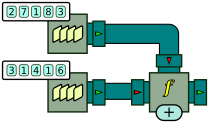
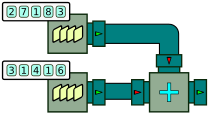
Chapter 2 finished

Changed region(s): [[0.7177, 0.6341, 0.89, 1.0]]

diff --git a/markdown/basic/README.md b/markdown/basic/README.md
@@ -143,7 +143,6 @@ System.out.println("The event is: " + p.pull());
 
 Notice how, after performing two pulls on `doubler`'s `Pullable`, we perform one call to `source`'s `Pullable`, and then resume pulling on `doubler`. The output of this program is this:
 
-
     The event is: 2
     The event is: 4
     The event is: 3
@@ -162,7 +161,7 @@ QueueSource source1 = new QueueSource();
 source1.setEvents(2, 7, 1, 8, 3);
 QueueSource source2 = new QueueSource();
 source2.setEvents(3, 1, 4, 1, 6);
-ApplyFunction add = new ApplyFunction(Numbers.addition);
+Adder add = new Adder();
 Connector.connect(source1, 0, add, 0);
 Connector.connect(source2, 0, add, 1);
 Pullable p = add.getPullableOutput();
@@ -172,14 +171,16 @@ for (int i = 0; i < 5; i++)
     System.out.println("The event is: " + x);
 }
 ```
-[⚓](https://github.com/liflab/beepbeep-3-examples/blob/master/Source/src/basic/PipingBinary.java#L41)
+[⚓](https://github.com/liflab/beepbeep-3-examples/blob/master/Source/src/basic/PipingBinary.java#L42)
 
 
 This time, we create *two* sources of numbers. We intend to connect these two sources of numbers to a processor called `add`, which, incidentally, has two input pipes. The interesting bit comes in the calls to [int, ca.uqac.lif.cep.Processor, int) connect()](http://liflab.github.io/beepbeep-3/javadoc/ca/uqac/lif/cep/Connector.html#connect(ca.uqac.lif.cep.Processor,), which now includes a few more arguments. The first call connects the output of `source1` to the *first* input of a processor called `add`. The second call connects the output of `source2` to the *second* input of `add`. Graphically, this is represented as follows:
 
 ![A processor with an input arity of two.](PipingBinary.png)
 
-The rest is done as usual: a `Pullable` is obtained from `add`, and its first few output events are printed:
+In a program, the two input pipes of `add` can be easily accessed through their number (0 or 1). However, in a drawing, it may be hard to decide which is which. In this book, we will follow the convention that the topmost input pipe is that with the lowest number. Hence, in the previous schema, input pipe 0 is the one connected to the queue 2-7-1-8-3. For some schemas, this may still not be clear enough; in such cases, we will explicitly write numbers next to the pipes to tell them apart.
+
+The rest of our program is done as usual: a `Pullable` is obtained from `add`, and its first few output events are printed:
 
 	The event is: 5.0
 	The event is: 8.0
@@ -196,7 +197,7 @@ SlowQueueSource source1 = new SlowQueueSource();
 source1.setEvents(2, 7, 1, 8, 3);
 QueueSource source2 = new QueueSource();
 source2.setEvents(3, 1, 4, 1, 6);
-ApplyFunction add = new ApplyFunction(Numbers.addition);
+Adder add = new Adder();
 Connector.connect(source1, 0, add, 0);
 Connector.connect(source2, 0, add, 1);
 Pullable p = add.getPullableOutput();
@@ -206,7 +207,7 @@ for (int i = 0; i < 5; i++)
     System.out.println("The event is: " + x);
 }
 ```
-[⚓](https://github.com/liflab/beepbeep-3-examples/blob/master/Source/src/basic/PipingBinaryWait.java#L47)
+[⚓](https://github.com/liflab/beepbeep-3-examples/blob/master/Source/src/basic/PipingBinaryWait.java#L46)
 
 
 The chain of processors in this example is almost identical to the previous example, and can be represented graphically as:
@@ -318,9 +319,86 @@ The `for` loop pushes the integers 0 to 7 into the input pipe of `doubler`; the 
 
 Notice the one-second interval between each number. This shows that, in pull mode, nothing happens until an upstream call to `push` triggers the chain of computation.
 
-## Pulling without source, pushing without sink {#without}
+## Pushing on binary processors {#pushbinary}
+
+Push mode exhibits a special behaviour in the case where a processor has an input arity of 2 or more. Consider the following piece of code:
+
+``` java
+Adder add = new Adder();
+Print print = new Print().setSeparator("\n");
+Connector.connect(add, print);
+Pushable p0 = add.getPushableInput(0);
+Pushable p1 = add.getPushableInput(1);
+```
+[⚓](https://github.com/liflab/beepbeep-3-examples/blob/master/Source/src/basic/BinaryPush.java#L44)
+
+
+This sets up an `Adder` processor, whose output is connected to a `Print` processor, as illustrated below:
+
+![Pushing events into a processor of input arity 2.](PipingBinaryPush.png)
+
+Since `add` is of input arity 2, it has two `Pushable` objects, numbered 0 and 1. We use a different version of method `getPushableInput()`, which takes an integer as an argument. By convention in our drawings, the first Pullable object is generally located at the top (or the left) of the box, and the second at the bottom (or the right). We shall put little numbers next to the pipes when the context is not clear.
+
+Let us see what happens when pushing numbers into `p0` and `p1`.
+
+``` java
+p0.push(3);
+System.out.println("This is the first printed line");
+p1.push(1);
+p1.push(4);
+p1.push(1);
+System.out.println("This is the third printed line");
+p0.push(5);
+p0.push(9);
+```
+[⚓](https://github.com/liflab/beepbeep-3-examples/blob/master/Source/src/basic/BinaryPush.java#L62)
+
+
+The first line pushes the number 3 into `p0`. However, since nothing has yet been pushed into `p1`, the first front of events is not complete; `add` is not ready to compute an addition, and nothing is pushed to the printer. This means that the next statement, which prints "This is the first printed line", is indeed the first line to be printed at the console. We then push the number 1 into `p1`; now a complete front is ready to be processed, and `add` pushes the number 4 (3+1) to its output pipe. This event is received by the printer, which prints it at the console.
+
+The next two instructions push two numbers into `p1`. Again, nothing is printed, since no new events have been received from `p0`. Hence the next instruction, "This is the third printed line", does produce the third line of the output. We then push the number 5 into `p0`. An event was already pushed into `p1`, so `add` is ready to compute a new addition, and outputs 9 (4+5).
+
+Here, an important remark must be made. The `add` processor computed the addition of number 5 pushed into `p0` with the number **4** that was pushed earlier into `p1`. That is, a processor consumes events from the same pullable **in the order they arrive**. Number 4 is the second event pushed into `p1`; hence it is matched with the second event pushed into `p0`.
+
+The last instruction pushes the number 9 into `p0`. The third event pushed into `p0` is matched with the third event pushed into `p1`, and `add` pushes 10 (1+9) to its output pipe. The end result of this program should be this:
+
+    This is the first printed line
+    4
+    This is the third printed line
+    9
+    10
+
+The remark on the order of arrival is important. It means that each processor has **input queues** to buffer events pushed from upstream until they can be consumed. Here, the numbers 4 and 5 were put into an event queue associated to `p1`, until events were pushed into `p0` and made a computation possible. The nice thing about BeepBeep is that you don't have to worry about these buffers: the system takes care of them by itself in a completely transparent manner.
+
+Note that the order in which events at the same position in two different streams are pushed still does not matter, though. That is, assuming that we are at the start of the program, writing this:
+
+``` java
+p0.push(3);
+p1.push(2);
+```
+
+will produce the same output as writing this:
+
+``` java
+p1.push(2);
+p0.push(3);
+```
+
+The next question that generally comes to one's mind is this: what happens if we keep pushing events on only one of the pullables, and nothing on the other? Since no computation can be made, won't this fill the first Pullable's queue forever? The simple answer to this question is: yes. If we keep pushing events on only one pullable (or more likely, if one of the upstream sources pushes events much faster than the other), we may end up filling one of the event queues and run out of memory.
+
+Although people are very quick to imagine such a catastrophe scenario, they are much slower at identifying a *realistic* use case where this could actually happen. Notice also that this is not a limitation on BeepBeep's side: if your goal is to add numbers from two input streams, and the first generates them at twice the speed of the second, you *have* to store those excess numbers somewhere, and that storage *has* to increase linearly with time. There is no escaping it, whether you use BeepBeep or not!
+
+## A few final notes {#notes}
+
+With these code examples, you know pretty much everything there is about processors in BeepBeep. We have seen how a few simple processor objects can be instantiated and piped together by means of the `Connector` object. We have also explored the two modes by which events can be passed around: *pull* mode where output events are queried by the user, and *push* mode where input events are produced by the user. We also delved on the principles of synchronous processing, and the fact that processors manage internal queues to make sure they always process events at matching positions in their input streams.
+
+The rest of this book is, more or less, simply playing around with these basic concepts. However, before moving on to the fun part, here are a few last comments to be made on processors.
+
+We mentioned earlier that a common mistake is to forget to connect two processors. A variant of this mistake is to forget to attach sources or sinks to the endpoints of a processor chain. Take the very simple example of the `Passthrough` processor, which simply takes input events and returns them as is to its output pipe. It can be drawn as follows:
 
 ![A passthrough without a source or a sink.](Passthrough.png)
+
+Let us create a `Passthrough`, and call `pull` on it, as in the following code example.
 
 ``` java
 Passthrough passthrough = new Passthrough();
@@ -330,6 +408,8 @@ p.pull();
 [⚓](https://github.com/liflab/beepbeep-3-examples/blob/master/Source/src/basic/PullWithoutSource.java#L57)
 
 
+This program will throw a `ConnectorException` for the same reasons as before: `passthrough` is asked for a new output event, but it is not connected to anything upstream. That makes sense. What is more surprising is that the reverse mistake also exists in push mode. Consider the following example:
+
 ``` java
 Passthrough passthrough = new Passthrough();
 Pushable p = passthrough.getPushableInput();
@@ -338,9 +418,12 @@ p.push("foo");
 [⚓](https://github.com/liflab/beepbeep-3-examples/blob/master/Source/src/basic/PushWithoutSink.java#L55)
 
 
-## Functions {#functions}
+This time, we attempt to push a string ("foo") into `passthrough` --but this, too, will throw a `ConnectorException`. Indeed: passthrough is asked to relay an event downstream, but nothing is connected to its output pipe. In the same way events cannot be created out of thin air (in pull mode), they cannot vanish into thin air either (in push mode). In other words, a chain of processors must always be **closed**:
 
-ARF
+- In pull mode, all upstream endpoints must be connected to a source
+- In push mode, all downstream endpoints must be connected to a sink
+
+If, for whatever reason, you want to discard events from a downstream processor, you still must connect it to a sink. However, there is a special sink, called [BlackHole](http://liflab.github.io/beepbeep-3/javadoc/ca/uqac/lif/cep/tmp/BlackHole.html), that does exactly that.
 
 ## Exercises {#ex-basic}
 
@@ -348,9 +431,5 @@ ARF
 
 2. Using the `QueueSource` and `Add` processors shown in this chapter, create a chain of processors that outputs the sum of each two consecutive prime numbers. The first six prime numbers are 2, 3, 5, 7, 11 and 13. That is, the first five output events should be 5, 8, 12, 18, 24. (Hint: you will need two `QueueSource`s.)
 
-
-## <a name="context">Context</a>
-
-Each processor instance is also associated with a **context**. A context is a persistent and modifiable map that associates names to arbitrary objects. When a processor is duplicated, its context is duplicated as well. If a processor requires the evaluation of a function, the current context of the processor is passed to the function. Hence the function's arguments may contain references to names of context elements, which are replaced with their concrete values before evaluation. Basic processors, such as those described in this section, do not use context. However, some special processors defined in extensions to BeepBeep's core (the Moore machine and the first-order quantifiers, among others) manipulate their [jdc:ca.uqac.lif.cep.Context](http://liflab.github.io/beepbeep-3/javadoc/ca/uqac/lif/cep/Context.html) object.
 
 <!-- :wrap=soft: -->

diff --git a/pre-markdown/basic/README.md b/pre-markdown/basic/README.md
@@ -109,7 +109,6 @@ The second mistake is to **call `pull` on an intermediate processor**. In our or
 
 Notice how, after performing two pulls on `doubler`'s `Pullable`, we perform one call to `source`'s `Pullable`, and then resume pulling on `doubler`. The output of this program is this:
 
-
     The event is: 2
     The event is: 4
     The event is: 3
@@ -129,7 +128,9 @@ This time, we create *two* sources of numbers. We intend to connect these two so
 
 {@img doc-files/basic/PipingBinary.png}{A processor with an input arity of two.}{.6}
 
-The rest is done as usual: a `Pullable` is obtained from `add`, and its first few output events are printed:
+In a program, the two input pipes of `add` can be easily accessed through their number (0 or 1). However, in a drawing, it may be hard to decide which is which. In this book, we will follow the convention that the topmost input pipe is that with the lowest number. Hence, in the previous schema, input pipe 0 is the one connected to the queue 2-7-1-8-3. For some schemas, this may still not be clear enough; in such cases, we will explicitly write numbers next to the pipes to tell them apart.
+
+The rest of our program is done as usual: a `Pullable` is obtained from `add`, and its first few output events are printed:
 
 	The event is: 5.0
 	The event is: 8.0
@@ -218,17 +219,80 @@ The `for` loop pushes the integers 0 to 7 into the input pipe of `doubler`; the 
 
 Notice the one-second interval between each number. This shows that, in pull mode, nothing happens until an upstream call to `push` triggers the chain of computation.
 
-## Pulling without source, pushing without sink {#without}
+## Pushing on binary processors {#pushbinary}
+
+Push mode exhibits a special behaviour in the case where a processor has an input arity of 2 or more. Consider the following piece of code:
+
+{@snipm basic/BinaryPush.java}{/}
+
+This sets up an `Adder` processor, whose output is connected to a `Print` processor, as illustrated below:
+
+{@img doc-files/basic/PipingBinaryPush.png}{Pushing events into a processor of input arity 2.}{.6}
+
+Since `add` is of input arity 2, it has two `Pushable` objects, numbered 0 and 1. We use a different version of method `getPushableInput()`, which takes an integer as an argument. By convention in our drawings, the first Pullable object is generally located at the top (or the left) of the box, and the second at the bottom (or the right). We shall put little numbers next to the pipes when the context is not clear.
+
+Let us see what happens when pushing numbers into `p0` and `p1`.
+
+{@snipm basic/BinaryPush.java}{\*}
+
+The first line pushes the number 3 into `p0`. However, since nothing has yet been pushed into `p1`, the first front of events is not complete; `add` is not ready to compute an addition, and nothing is pushed to the printer. This means that the next statement, which prints "This is the first printed line", is indeed the first line to be printed at the console. We then push the number 1 into `p1`; now a complete front is ready to be processed, and `add` pushes the number 4 (3+1) to its output pipe. This event is received by the printer, which prints it at the console.
+
+The next two instructions push two numbers into `p1`. Again, nothing is printed, since no new events have been received from `p0`. Hence the next instruction, "This is the third printed line", does produce the third line of the output. We then push the number 5 into `p0`. An event was already pushed into `p1`, so `add` is ready to compute a new addition, and outputs 9 (4+5).
+
+Here, an important remark must be made. The `add` processor computed the addition of number 5 pushed into `p0` with the number **4** that was pushed earlier into `p1`. That is, a processor consumes events from the same pullable **in the order they arrive**. Number 4 is the second event pushed into `p1`; hence it is matched with the second event pushed into `p0`.
+
+The last instruction pushes the number 9 into `p0`. The third event pushed into `p0` is matched with the third event pushed into `p1`, and `add` pushes 10 (1+9) to its output pipe. The end result of this program should be this:
+
+    This is the first printed line
+    4
+    This is the third printed line
+    9
+    10
+
+The remark on the order of arrival is important. It means that each processor has **input queues** to buffer events pushed from upstream until they can be consumed. Here, the numbers 4 and 5 were put into an event queue associated to `p1`, until events were pushed into `p0` and made a computation possible. The nice thing about BeepBeep is that you don't have to worry about these buffers: the system takes care of them by itself in a completely transparent manner.
+
+Note that the order in which events at the same position in two different streams are pushed still does not matter, though. That is, assuming that we are at the start of the program, writing this:
+
+``` java
+p0.push(3);
+p1.push(2);
+```
+
+will produce the same output as writing this:
+
+``` java
+p1.push(2);
+p0.push(3);
+```
+
+The next question that generally comes to one's mind is this: what happens if we keep pushing events on only one of the pullables, and nothing on the other? Since no computation can be made, won't this fill the first Pullable's queue forever? The simple answer to this question is: yes. If we keep pushing events on only one pullable (or more likely, if one of the upstream sources pushes events much faster than the other), we may end up filling one of the event queues and run out of memory.
+
+Although people are very quick to imagine such a catastrophe scenario, they are much slower at identifying a *realistic* use case where this could actually happen. Notice also that this is not a limitation on BeepBeep's side: if your goal is to add numbers from two input streams, and the first generates them at twice the speed of the second, you *have* to store those excess numbers somewhere, and that storage *has* to increase linearly with time. There is no escaping it, whether you use BeepBeep or not!
+
+## A few final notes {#notes}
+
+With these code examples, you know pretty much everything there is about processors in BeepBeep. We have seen how a few simple processor objects can be instantiated and piped together by means of the `Connector` object. We have also explored the two modes by which events can be passed around: *pull* mode where output events are queried by the user, and *push* mode where input events are produced by the user. We also delved on the principles of synchronous processing, and the fact that processors manage internal queues to make sure they always process events at matching positions in their input streams.
+
+The rest of this book is, more or less, simply playing around with these basic concepts. However, before moving on to the fun part, here are a few last comments to be made on processors.
+
+We mentioned earlier that a common mistake is to forget to connect two processors. A variant of this mistake is to forget to attach sources or sinks to the endpoints of a processor chain. Take the very simple example of the `Passthrough` processor, which simply takes input events and returns them as is to its output pipe. It can be drawn as follows:
 
 {@img doc-files/basic/Passthrough.png}{A passthrough without a source or a sink.}{.6}
 
+Let us create a `Passthrough`, and call `pull` on it, as in the following code example.
+
 {@snipm basic/PullWithoutSource.java}{/}
+
+This program will throw a `ConnectorException` for the same reasons as before: `passthrough` is asked for a new output event, but it is not connected to anything upstream. That makes sense. What is more surprising is that the reverse mistake also exists in push mode. Consider the following example:
 
 {@snipm basic/PushWithoutSink.java}{/}
 
-## Functions {#functions}
+This time, we attempt to push a string ("foo") into `passthrough` --but this, too, will throw a `ConnectorException`. Indeed: passthrough is asked to relay an event downstream, but nothing is connected to its output pipe. In the same way events cannot be created out of thin air (in pull mode), they cannot vanish into thin air either (in push mode). In other words, a chain of processors must always be **closed**:
 
-ARF
+- In pull mode, all upstream endpoints must be connected to a source
+- In push mode, all downstream endpoints must be connected to a sink
+
+If, for whatever reason, you want to discard events from a downstream processor, you still must connect it to a sink. However, there is a special sink, called {@link jdc:ca.uqac.lif.cep.tmp.BlackHole BlackHole}, that does exactly that.
 
 ## Exercises {#ex-basic}
 
@@ -236,9 +300,5 @@ ARF
 
 2. Using the `QueueSource` and `Add` processors shown in this chapter, create a chain of processors that outputs the sum of each two consecutive prime numbers. The first six prime numbers are 2, 3, 5, 7, 11 and 13. That is, the first five output events should be 5, 8, 12, 18, 24. (Hint: you will need two `QueueSource`s.)
 
-
-## <a name="context">Context</a>
-
-Each processor instance is also associated with a **context**. A context is a persistent and modifiable map that associates names to arbitrary objects. When a processor is duplicated, its context is duplicated as well. If a processor requires the evaluation of a function, the current context of the processor is passed to the function. Hence the function's arguments may contain references to names of context elements, which are replaced with their concrete values before evaluation. Basic processors, such as those described in this section, do not use context. However, some special processors defined in extensions to BeepBeep's core (the Moore machine and the first-order quantifiers, among others) manipulate their {@link jdc:ca.uqac.lif.cep.Context} object.
 
 <!-- :wrap=soft: -->

diff --git a/markdown/custom/README.md b/markdown/custom/README.md
@@ -5,3 +5,6 @@ BeepBeep was designed from the start to be easily extensible. As was discussed e
 
 This modular organization has three advantages. First, palettes are a flexible and generic way to extend the engine to various application domains, in ways unforeseen by its original designers. Second, they make the engine's core (and each palette individually) relatively small and self-contained, easing the development and debugging process. Finally, it is hoped that BeepBeep's palette architecture, combined with its simple extension mechanisms, will help third-party users contribute to the BeepBeep ecosystem by developing and distributing extensions suited to their own needs.
 
+## <a name="context">Context</a>
+
+Each processor instance is also associated with a **context**. A context is a persistent and modifiable map that associates names to arbitrary objects. When a processor is duplicated, its context is duplicated as well. If a processor requires the evaluation of a function, the current context of the processor is passed to the function. Hence the function's arguments may contain references to names of context elements, which are replaced with their concrete values before evaluation. Basic processors, such as those described in this section, do not use context. However, some special processors defined in extensions to BeepBeep's core (the Moore machine and the first-order quantifiers, among others) manipulate their [jdc:ca.uqac.lif.cep.Context](http://liflab.github.io/beepbeep-3/javadoc/ca/uqac/lif/cep/Context.html) object.

diff --git a/pre-markdown/custom/README.md b/pre-markdown/custom/README.md
@@ -5,3 +5,6 @@ BeepBeep was designed from the start to be easily extensible. As was discussed e
 
 This modular organization has three advantages. First, palettes are a flexible and generic way to extend the engine to various application domains, in ways unforeseen by its original designers. Second, they make the engine's core (and each palette individually) relatively small and self-contained, easing the development and debugging process. Finally, it is hoped that BeepBeep's palette architecture, combined with its simple extension mechanisms, will help third-party users contribute to the BeepBeep ecosystem by developing and distributing extensions suited to their own needs.
 
+## <a name="context">Context</a>
+
+Each processor instance is also associated with a **context**. A context is a persistent and modifiable map that associates names to arbitrary objects. When a processor is duplicated, its context is duplicated as well. If a processor requires the evaluation of a function, the current context of the processor is passed to the function. Hence the function's arguments may contain references to names of context elements, which are replaced with their concrete values before evaluation. Basic processors, such as those described in this section, do not use context. However, some special processors defined in extensions to BeepBeep's core (the Moore machine and the first-order quantifiers, among others) manipulate their {@link jdc:ca.uqac.lif.cep.Context} object.

diff --git a/markdown/SUMMARY.md b/markdown/SUMMARY.md
@@ -14,7 +14,9 @@
   * [Processors with more than one input](basic/README.md#binary)
   * [When types do not match](basic/README.md#mismatch)
   * [Pushing events](basic/README.md#pushing)
-  * [Functions](basic/README.md#functions)
+  * [Pushing on binary processors](basic/README.md#pushbinary)
+  * [Pulling without source, pushing without sink](basic/README.md#without)
+  * [A few final notes](basic/README.md#without)
   * [Exercises](basic/README.md#ex-basic)
 * [Fundamental processors and functions](core/README.md)
   * [Apply a function](core/README.md#applyfunction)

diff --git a/pre-markdown/SUMMARY.md b/pre-markdown/SUMMARY.md
@@ -14,8 +14,9 @@
   * [Processors with more than one input](basic/README.md#binary)
   * [When types do not match](basic/README.md#mismatch)
   * [Pushing events](basic/README.md#pushing)
+  * [Pushing on binary processors](basic/README.md#pushbinary)
   * [Pulling without source, pushing without sink](basic/README.md#without)
-  * [Functions](basic/README.md#functions)
+  * [A few final notes](basic/README.md#without)
   * [Exercises](basic/README.md#ex-basic)
 * [Fundamental processors and functions](core/README.md)
   * [Apply a function](core/README.md#applyfunction)
